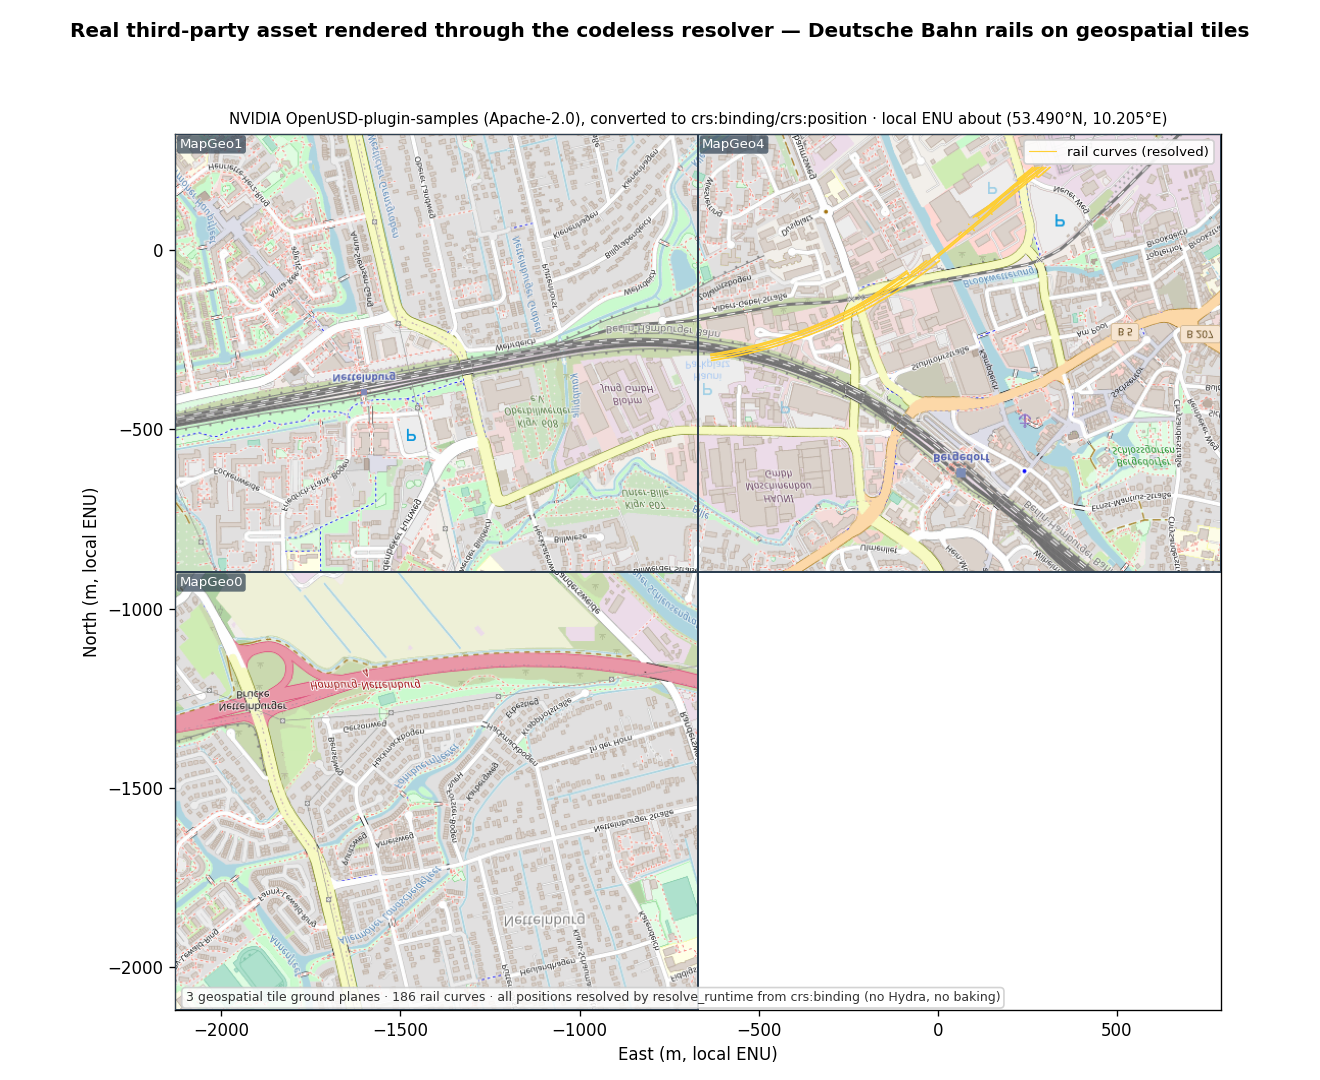
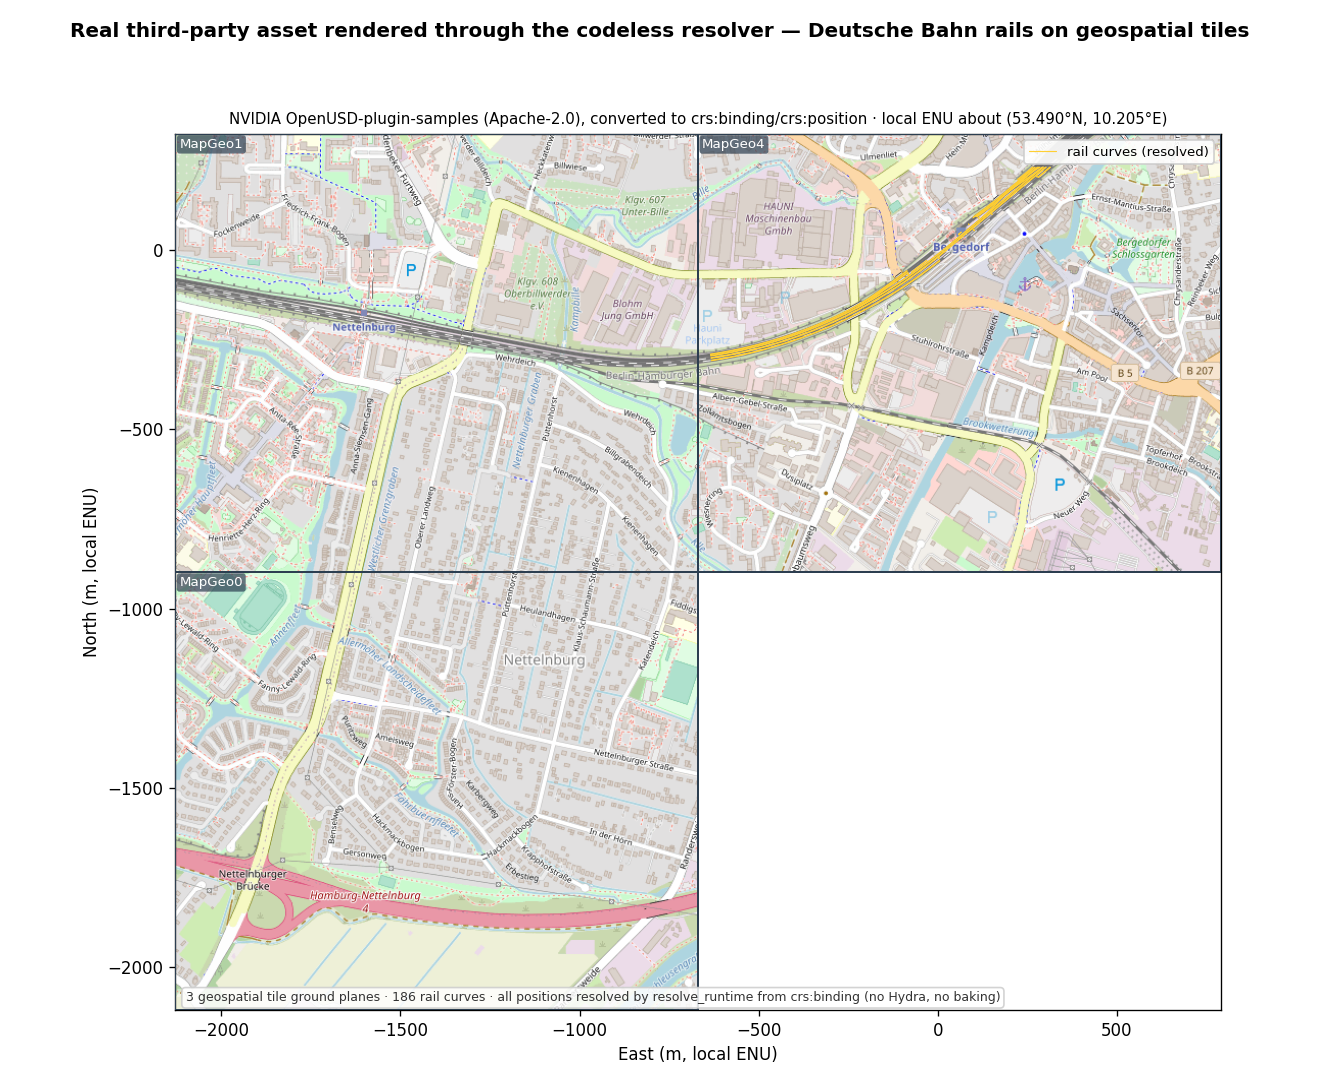
usdGeospatial: fix tile texture N/S flip in railway figures (origin=lower -> upper)
The railway figures painted each tile's quadnode imagery with imshow(origin=
'lower'), which puts image row 0 (the TOP of the PNG) at the south edge of the
tile -- flipping the texture north/south, so the basemap text rendered mirrored
and the (correctly-resolved) rails appeared not to sit on the tiles. The tile
quads carry st=[(0,0),(0,1),(1,1),(1,0)] with t=0 at the SOUTH corner, so image
row 0 must map to NORTH: origin='upper'. Texture-only fix; geometry untouched --
parity is byte-for-byte unchanged (median 0.40 mm / worst 0.68 mm over 3,526
verts, exit 0). Fixed in both fig_railway_render (render_figures.py) and
fig_runtime_parity, regenerated railway_render.png + runtime_parity.png.

Changed region(s): [[0.1242, 0.1222, 0.9318, 0.9167]]

diff --git a/extras/usd/examples/usdGeospatial/src/render_figures.py b/extras/usd/examples/usdGeospatial/src/render_figures.py
@@ -681,7 +681,10 @@ def fig_railway_render(out, stage_path="out/railway_georef.usda"):
         nmin, nmax = c[:, 1].min(), c[:, 1].max()
         if tl["tex"]:
             img = np.asarray(Image.open(tl["tex"]).convert("RGB"))
-            ax.imshow(img, extent=[emin, emax, nmin, nmax], origin="lower",
+            # origin="upper": image row 0 (top of the picture) maps to nmax (north),
+            # matching the tile's st convention (t=0 at the south corner). Using
+            # origin="lower" here flips the texture N/S (mirrored text).
+            ax.imshow(img, extent=[emin, emax, nmin, nmax], origin="upper",
                       zorder=1, alpha=0.95, aspect="auto")
         else:
             ax.add_patch(plt.Rectangle((emin, nmin), emax-emin, nmax-nmin,

diff --git a/extras/usd/examples/usdGeospatial/fig_runtime_parity.py b/extras/usd/examples/usdGeospatial/fig_runtime_parity.py
@@ -125,7 +125,9 @@ def draw_rails_on_tiles(ax, tiles, rails, title_top, title_sub):
         nmin, nmax = c[:, 1].min(), c[:, 1].max()
         if tl["tex"]:
             img = np.asarray(Image.open(tl["tex"]).convert("RGB"))
-            ax.imshow(img, extent=[emin, emax, nmin, nmax], origin="lower",
+            # origin="upper": image row 0 (top) -> nmax (north), matching the tile's
+            # st convention (t=0 south). origin="lower" flips the texture N/S.
+            ax.imshow(img, extent=[emin, emax, nmin, nmax], origin="upper",
                       zorder=1, alpha=0.95, aspect="auto")
         else:
             ax.add_patch(plt.Rectangle((emin, nmin), emax - emin, nmax - nmin,
